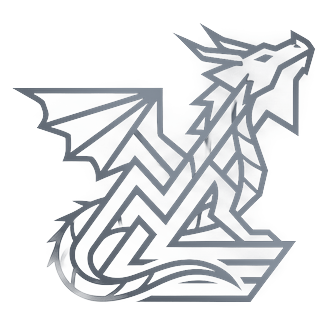
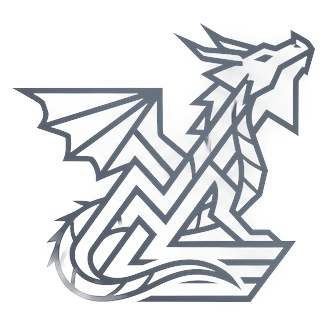
Ajusta a marca clara, a piscada em estrela e a cortina do tema
Marca no modo claro
- "LERICH" agora fica preto, como o branco da arte original pedia. A geração
  passou a separar texto e desenho pela saturação: os dois têm luminância
  alta, mas o texto é dessaturado e a arte é dourada. O texto vai para uma
  rampa que termina em quase preto; o dragão segue na rampa de prateado.

Piscada do olho
- Deixou de ser um halo redondo e virou uma estrela de quatro pontas, branca
  nos dois temas: núcleo intenso, dois feixes finos cruzados e um brilho
  difuso que assenta a estrela sobre a arte. No claro o olho do dragão é
  escuro, então o branco aparece igual — não precisa mais inverter a mistura.

Cortina do tema
- 50% mais lenta: 780ms -> 1170ms na varredura e 260ms -> 390ms na versão
  curta de "reduzir movimento". As durações do CSS e do JS seguem casadas,
  porque a troca de paleta acontece na metade do percurso.
- As pontas da faixa terminam transparentes, então ela entra e sai sem a
  borda reta que aparecia antes.

diff --git a/app/globals.css b/app/globals.css
@@ -66,11 +66,6 @@
   --metal-2: #d4af37;
   --metal-3: #8f6f1f;
   --metal-4: #e9cb6d;
-
-  /* Brilho do olho do dragão */
-  --olho-1: rgba(255, 252, 240, 0.95);
-  --olho-2: rgba(255, 232, 160, 0.75);
-  --olho-3: rgba(212, 175, 55, 0.4);
 }
 
 /*
@@ -120,12 +115,6 @@
   --metal-2: #4a535e;
   --metal-3: #2b323b;
   --metal-4: #737e8b;
-
-  /* Sobre a arte prateada o brilho precisa somar contraste escurecendo. */
-  --olho-mistura: multiply;
-  --olho-1: rgba(255, 255, 255, 0.9);
-  --olho-2: rgba(120, 132, 146, 0.55);
-  --olho-3: rgba(40, 47, 56, 0.5);
 }
 
 /*
@@ -286,21 +275,23 @@ body::before {
   z-index: 100;
   pointer-events: none;
   will-change: transform;
-  animation: cortina-tema 780ms cubic-bezier(0.65, 0, 0.35, 1) forwards;
+  animation: cortina-tema 1170ms cubic-bezier(0.65, 0, 0.35, 1) forwards;
 }
 
 /* Do preto e dourado para o branco e prateado, ao longo da faixa. */
 .cortina-tema[data-para='claro'] {
   background: linear-gradient(
     100deg,
-    #050505 0%,
-    #1a1814 14%,
-    #d4af37 34%,
-    #f2e0a0 46%,
-    #ffffff 60%,
-    #e6eaef 74%,
-    #8e98a4 88%,
-    #4a535e 100%
+    rgba(5, 5, 5, 0) 0%,
+    rgba(5, 5, 5, 0.55) 8%,
+    rgba(26, 24, 20, 0.95) 18%,
+    rgba(212, 175, 55, 0.98) 36%,
+    rgba(242, 224, 160, 1) 48%,
+    rgba(255, 255, 255, 1) 60%,
+    rgba(230, 234, 239, 0.98) 72%,
+    rgba(142, 152, 164, 0.9) 84%,
+    rgba(74, 83, 94, 0.5) 93%,
+    rgba(74, 83, 94, 0) 100%
   );
 }
 
@@ -308,14 +299,16 @@ body::before {
 .cortina-tema[data-para='escuro'] {
   background: linear-gradient(
     100deg,
-    #4a535e 0%,
-    #8e98a4 12%,
-    #e6eaef 26%,
-    #ffffff 40%,
-    #f2e0a0 54%,
-    #d4af37 66%,
-    #1a1814 86%,
-    #050505 100%
+    rgba(74, 83, 94, 0) 0%,
+    rgba(74, 83, 94, 0.5) 7%,
+    rgba(142, 152, 164, 0.92) 16%,
+    rgba(230, 234, 239, 0.98) 28%,
+    rgba(255, 255, 255, 1) 40%,
+    rgba(242, 224, 160, 1) 54%,
+    rgba(212, 175, 55, 0.98) 66%,
+    rgba(26, 24, 20, 0.95) 84%,
+    rgba(5, 5, 5, 0.55) 93%,
+    rgba(5, 5, 5, 0) 100%
   );
 }
 
@@ -362,7 +355,7 @@ body::before {
   aspect-ratio: 1;
   border-radius: 9999px;
   pointer-events: none;
-  mix-blend-mode: var(--olho-mistura, screen);
+  mix-blend-mode: screen;
   opacity: 0;
   /*
     `translate` e `scale` separados do `transform`: assim a centralização
@@ -371,13 +364,25 @@ body::before {
   */
   translate: -50% -50%;
   scale: 0.55;
-  background: radial-gradient(
-    circle,
-    var(--olho-1) 0%,
-    var(--olho-2) 28%,
-    var(--olho-3) 55%,
-    transparent 72%
-  );
+  /*
+    Estrela de quatro pontas: um núcleo redondo e dois feixes cruzados, feitos
+    com elipses achatadas. Branca nos dois temas — no claro o olho da arte
+    prateada é escuro, então o brilho aparece igual.
+  */
+  background:
+    /* núcleo pequeno e intenso */
+    radial-gradient(
+      circle at 50% 50%,
+      rgba(255, 255, 255, 1) 0%,
+      rgba(255, 255, 255, 0.7) 9%,
+      transparent 22%
+    ),
+    /* feixe horizontal, longo e fino */
+    radial-gradient(ellipse 50% 3% at 50% 50%, rgba(255, 255, 255, 0.95), transparent 82%),
+    /* feixe vertical */
+    radial-gradient(ellipse 3% 50% at 50% 50%, rgba(255, 255, 255, 0.95), transparent 82%),
+    /* brilho difuso que assenta a estrela sobre a arte */
+    radial-gradient(circle at 50% 50%, rgba(255, 255, 255, 0.22) 0%, transparent 55%);
   animation: cintilar-olho 5s ease-in-out infinite;
 }
 
@@ -429,7 +434,7 @@ body::before {
 
   /* A cortina vira um clarão curto, sem varredura. */
   .cortina-tema {
-    animation: cortina-tema-suave 260ms ease-out forwards;
+    animation: cortina-tema-suave 390ms ease-out forwards;
   }
 }
 

diff --git a/components/brand/logo.tsx b/components/brand/logo.tsx
@@ -11,8 +11,8 @@ export const BRAND_NAME = 'Lerich Finance';
  * cai em pontos diferentes — e o brilho precisa de tamanhos diferentes para
  * cobrir a mesma área física.
  */
-const OLHO_MARCA = { '--eye-x': '80.1%', '--eye-y': '17.2%', '--eye-size': '19%' } as CSSProperties;
-const OLHO_LOCKUP = { '--eye-x': '64.3%', '--eye-y': '12.1%', '--eye-size': '8%' } as CSSProperties;
+const OLHO_MARCA = { '--eye-x': '80.1%', '--eye-y': '17.2%', '--eye-size': '30%' } as CSSProperties;
+const OLHO_LOCKUP = { '--eye-x': '64.3%', '--eye-y': '12.1%', '--eye-size': '13%' } as CSSProperties;
 
 /*
   Cada marca tem duas artes: a dourada, para o fundo escuro, e a prateada, para

diff --git a/components/theme/theme-provider.tsx b/components/theme/theme-provider.tsx
@@ -21,8 +21,8 @@ const Contexto = createContext<ContextoTema | null>(null);
  * ciclo é bem mais rápido. A troca de tema é uma ação pedida pelo usuário, não
  * um movimento ambiente, por isso ela continua tendo um retorno visual.
  */
-const DURACAO_MS = 780;
-const DURACAO_REDUZIDA_MS = 260;
+const DURACAO_MS = 1170;
+const DURACAO_REDUZIDA_MS = 390;
 
 /*
   O atributo `data-tema` do <html> é a fonte da verdade: o script inline do
